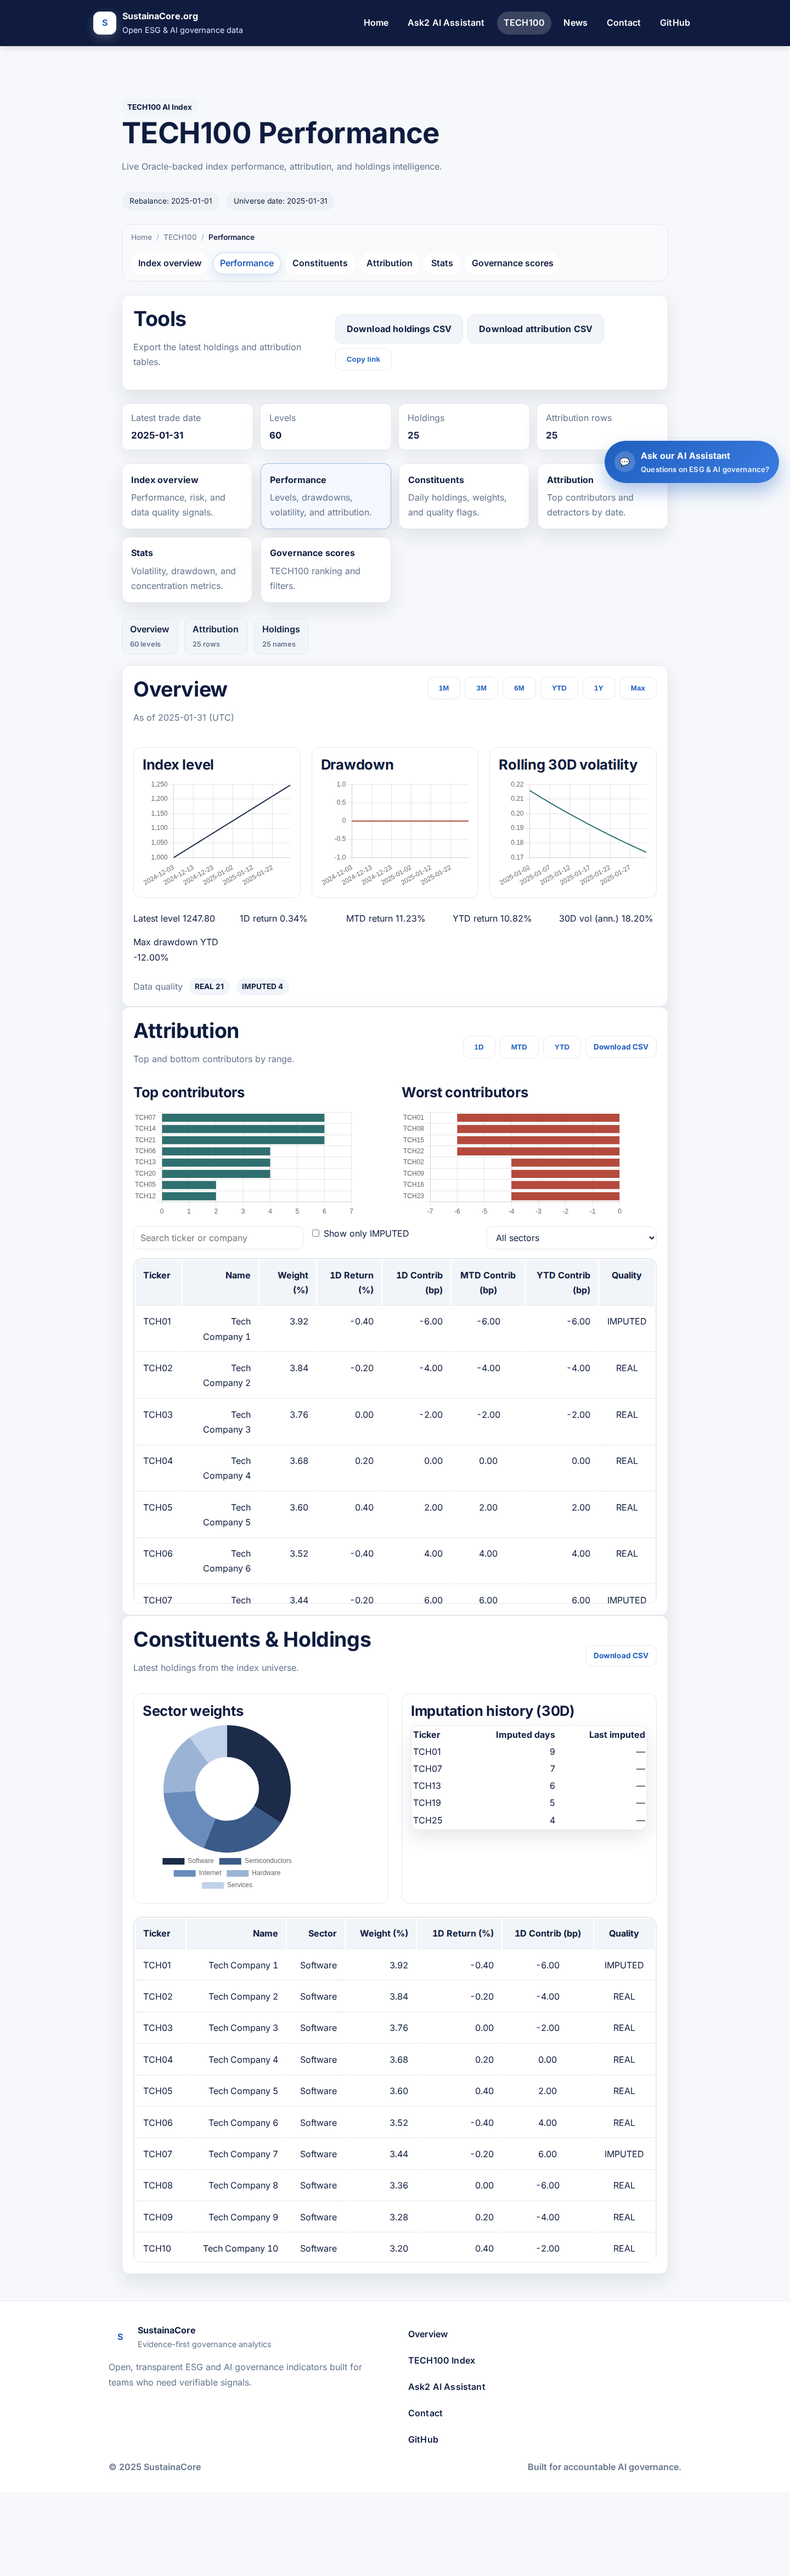
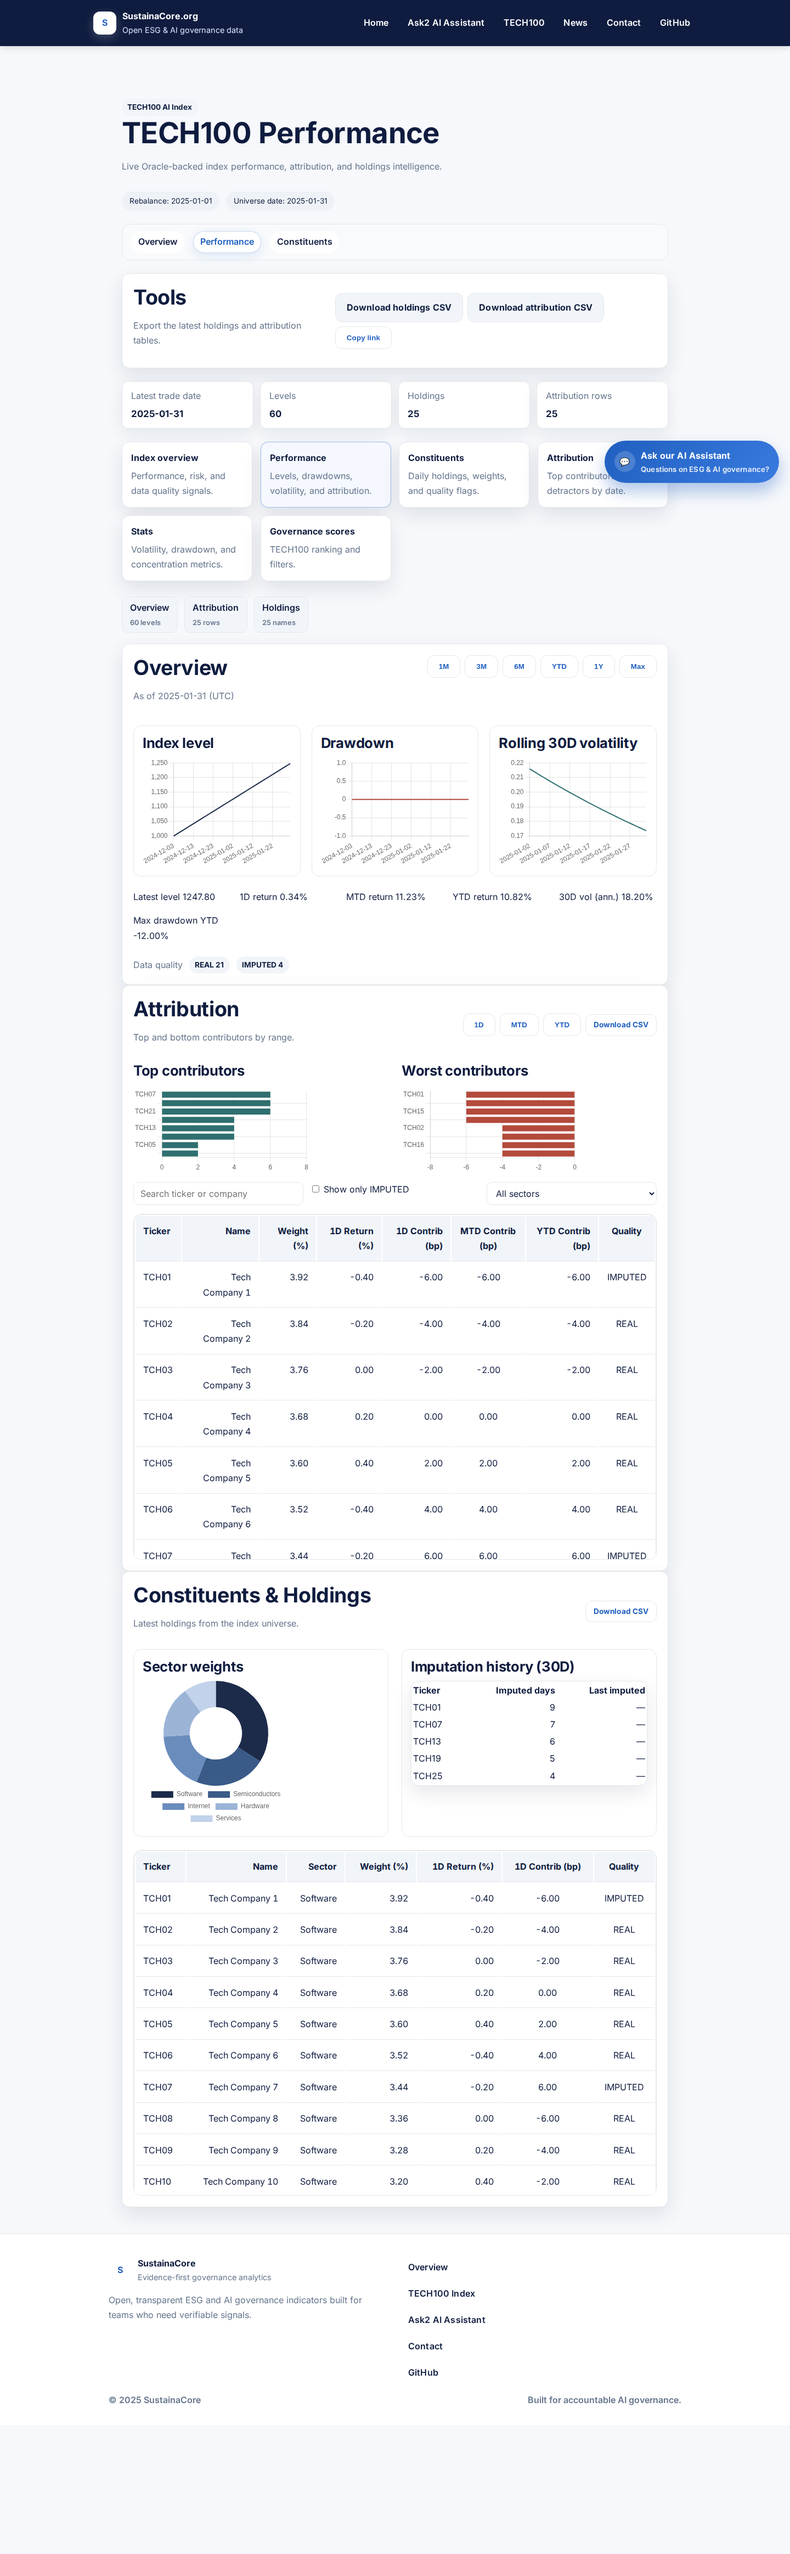
Homepage + TECH100 nav polish (#241)
* Add TECH100 homepage entry point

* Add TECH100 nav and homepage-friendly screenshots

* Refresh TECH100 before/after screenshots

diff --git a/website_django/templates/partials/tech100_nav.html b/website_django/templates/partials/tech100_nav.html
@@ -1,17 +1,23 @@
 <nav class="tech100-nav" aria-label="TECH100 navigation">
-  <div class="tech100-nav__breadcrumb">
-    <a href="/">Home</a>
-    <span class="tech100-nav__separator">/</span>
-    <a href="/tech100/">TECH100</a>
-    <span class="tech100-nav__separator">/</span>
-    <span class="tech100-nav__current">{{ tech100_current|default:"Overview" }}</span>
-  </div>
-  <div class="tech100-nav__links">
-    <a class="tech100-nav__link {% if request.path == '/tech100/index/' %}is-active{% endif %}" href="/tech100/index/">Index overview</a>
-    <a class="tech100-nav__link {% if request.path == '/tech100/performance/' %}is-active{% endif %}" href="/tech100/performance/">Performance</a>
-    <a class="tech100-nav__link {% if request.path == '/tech100/constituents/' %}is-active{% endif %}" href="/tech100/constituents/">Constituents</a>
-    <a class="tech100-nav__link {% if request.path == '/tech100/attribution/' %}is-active{% endif %}" href="/tech100/attribution/">Attribution</a>
-    <a class="tech100-nav__link {% if request.path == '/tech100/stats/' %}is-active{% endif %}" href="/tech100/stats/">Stats</a>
-    <a class="tech100-nav__link {% if request.path == '/tech100/' %}is-active{% endif %}" href="/tech100/">Governance scores</a>
-  </div>
+  <a
+    class="tech100-nav__link {% if request.path == '/tech100/index/' %}is-active{% endif %}"
+    href="/tech100/index/"
+    {% if request.path == '/tech100/index/' %}aria-current="page"{% endif %}
+  >
+    Overview
+  </a>
+  <a
+    class="tech100-nav__link {% if request.path == '/tech100/performance/' %}is-active{% endif %}"
+    href="/tech100/performance/"
+    {% if request.path == '/tech100/performance/' %}aria-current="page"{% endif %}
+  >
+    Performance
+  </a>
+  <a
+    class="tech100-nav__link {% if request.path == '/tech100/constituents/' %}is-active{% endif %}"
+    href="/tech100/constituents/"
+    {% if request.path == '/tech100/constituents/' %}aria-current="page"{% endif %}
+  >
+    Constituents
+  </a>
 </nav>

diff --git a/website_django/templates/home.html b/website_django/templates/home.html
@@ -55,7 +55,24 @@
                 <h2>Performance at a glance</h2>
                 <p class="muted">A compact view of index performance and data quality signals.</p>
             </div>
-            <a class="btn btn--secondary" href="/tech100/performance/">View TECH100 performance</a>
+        </div>
+
+        <div class="card tech100-entry">
+            <span class="pill pill--soft">TECH100 AI Index Snapshot</span>
+            <h3 class="h4">Explore TECH100 AI Governance &amp; Ethics</h3>
+            <p class="muted">Navigate the full TECH100 experience with performance, constituents, and governance scores.</p>
+            <div class="actions">
+                <a class="btn btn--primary" href="/tech100/index/">View dashboard</a>
+            </div>
+            <div class="tech100-entry__links">
+                <span class="muted">Quick links:</span>
+                <a class="text-link" href="/tech100/performance/">Performance</a>
+                <a class="text-link" href="/tech100/constituents/">Constituents</a>
+                <a class="text-link" href="/tech100/">Governance</a>
+            </div>
+            <div class="tech100-entry__tools muted">
+                Tools: <a class="text-link" href="/tech100/performance/export/?kind=holdings">Download holdings CSV</a>
+            </div>
         </div>
 
         {% if tech100_snapshot.data_error %}

diff --git a/website_django/static/css/main.css b/website_django/static/css/main.css
@@ -1325,7 +1325,7 @@ textarea:focus {
 .tech100-nav {
     display: flex;
     align-items: center;
-    justify-content: space-between;
+    justify-content: flex-start;
     gap: 1rem;
     padding: 0.75rem 1rem;
     margin: 1rem 0 1.5rem;
@@ -1379,6 +1379,23 @@ textarea:focus {
     border-color: rgba(31, 95, 191, 0.25);
     box-shadow: 0 6px 18px rgba(31, 95, 191, 0.12);
     color: var(--brand-blue);
+}
+
+.tech100-entry {
+    margin-bottom: 1.5rem;
+}
+
+.tech100-entry__links {
+    display: flex;
+    flex-wrap: wrap;
+    gap: 0.75rem;
+    align-items: center;
+    font-size: 0.95rem;
+}
+
+.tech100-entry__tools {
+    margin-top: 0.5rem;
+    font-size: 0.95rem;
 }
 
 .tech100-context {

diff --git a/website_django/templates/tech100_constituents.html b/website_django/templates/tech100_constituents.html
@@ -14,6 +14,8 @@
         <p class="muted">Daily holdings, weights, and quality flags from Oracle.</p>
       </div>
 
+      {% include "partials/tech100_nav.html" %}
+
       <div class="card tech100-index__filters">
         <label class="form-field">
           <span>Date</span>

diff --git a/website_django/templates/tech100_attribution.html b/website_django/templates/tech100_attribution.html
@@ -14,6 +14,8 @@
         <p class="muted">Contribution breakdown for the selected trade date.</p>
       </div>
 
+      {% include "partials/tech100_nav.html" %}
+
       <div class="card tech100-index__filters">
         <label class="form-field">
           <span>Date</span>

diff --git a/website_django/templates/tech100_stats.html b/website_django/templates/tech100_stats.html
@@ -14,6 +14,8 @@
         <p class="muted">Index-level metrics from SC_IDX_STATS_DAILY.</p>
       </div>
 
+      {% include "partials/tech100_nav.html" %}
+
       <div class="card tech100-index__filters">
         <label class="form-field">
           <span>Date</span>

diff --git a/website_django/templates/tech100.html b/website_django/templates/tech100.html
@@ -68,6 +68,8 @@
       </div>
     </div>
 
+    {% include "partials/tech100_nav.html" %}
+
     {% if tech100_error %}
       <div class="alert alert--warning">
         Live TECH100 data is temporarily unavailable; please try again later.
